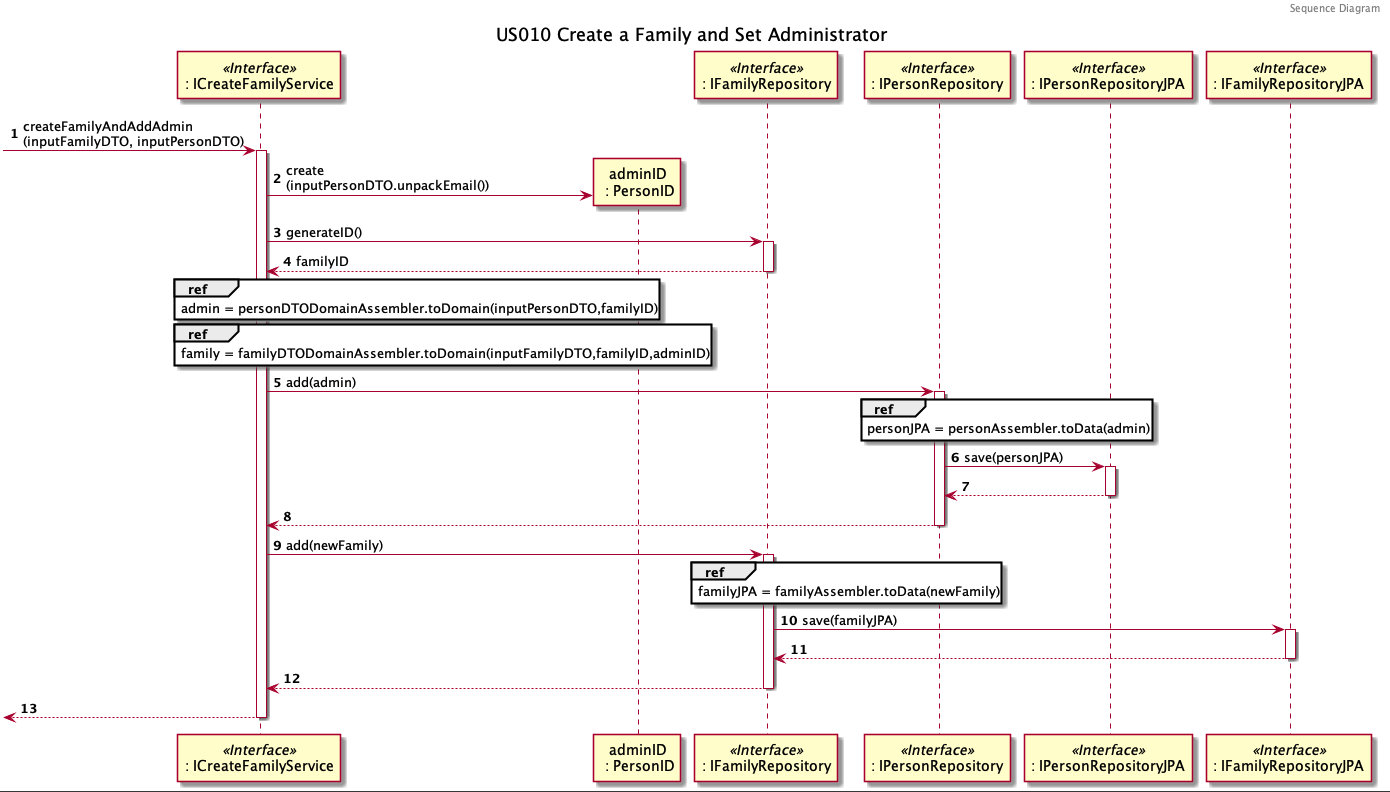
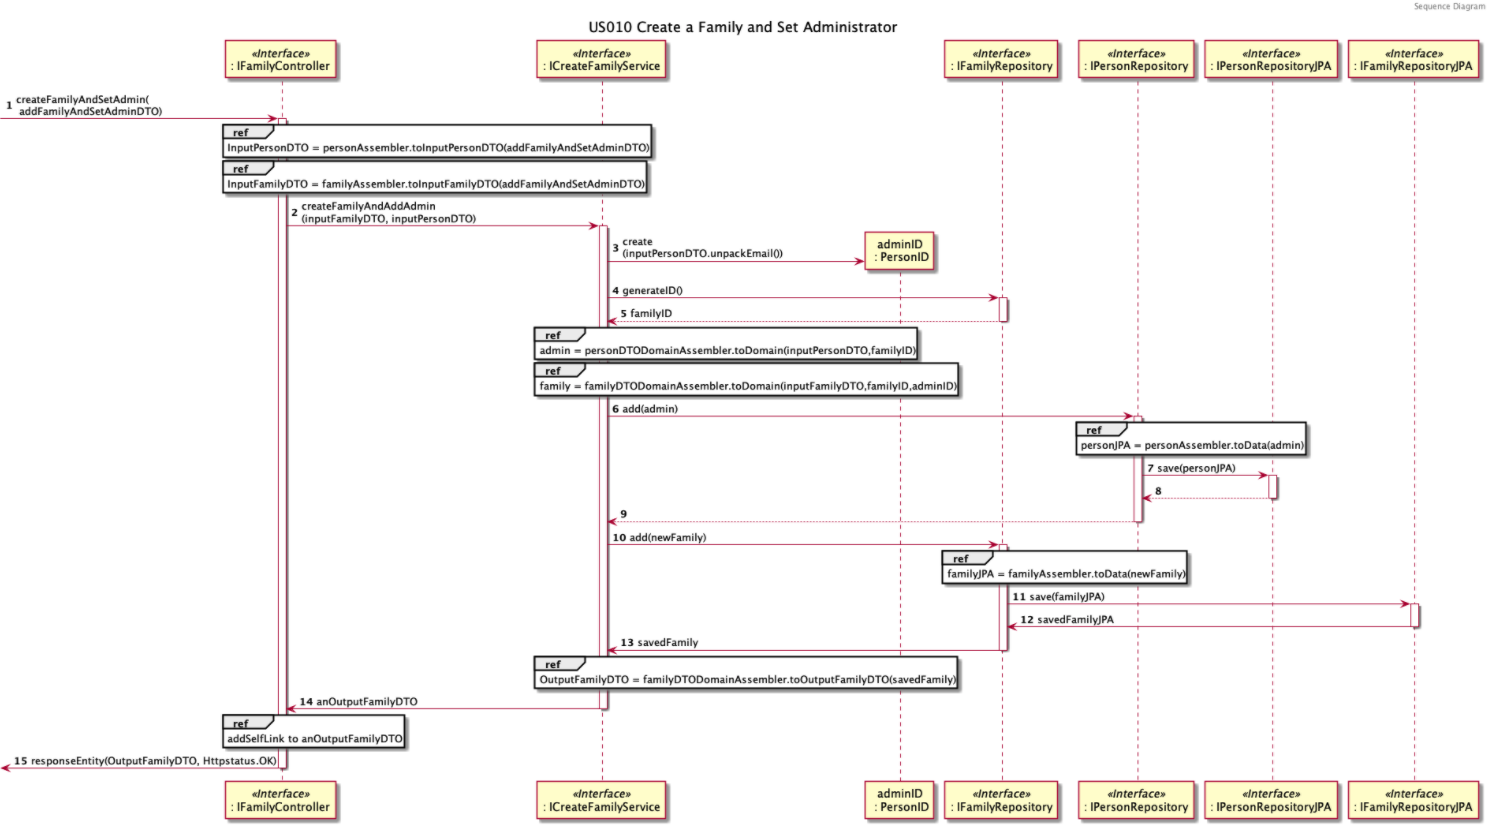
process logic add examples

diff --git a/Views.md b/Views.md
@@ -223,8 +223,8 @@ Foram introduzidos conceitos como os *aggregates* e *value objects* que permitir
 
 DDD diagram
 
-A forma final da aplicação utiliza a arquitetura **Onion** que é representada por uma divisão em camadas concêntricas cujas dependências têm um sentido interno.
-O diagrama de classes apresenta-se dividido em 4 camadas, **infrastructure**, **interface adapters**, **use case services** e **domain**, sendo a infrastructure a mais exterior e a domain a mais interior, representado na seguinte imagem.
+A forma final da aplicação utiliza a arquitetura ***Onion*** que é representada por uma divisão em camadas concêntricas cujas dependências têm um sentido interno.
+O diagrama de classes apresenta-se dividido em 4 camadas, ***infrastructure***, ***interface adapters***, ***use case services*** e ***domain***, sendo a *infrastructure* a mais exterior e o *domain* a mais interior, representado na seguinte imagem.
 
 Class Diagram
 
@@ -237,44 +237,32 @@ Seguindo a estruturação apresentada na vista lógica é possível construir a 
 ![sd_us001](diagrams/general%20diagram%20SD.png)
 
 Aplicando a estrutura do diagrama de sequência podemos concluir que segue um padrão comum para todas as **user stories** da aplicação.
-Desta forma, há um pedido http direccionado ao **REST controller** que invoca um service, específico para cada caso de uso, onde a lógica de negócio será aplicada. Daqui será invocado o repositório do respetivo agregado envolvido, que será responsável pela comunicação com a persistência, e mediante o tipo de pedido adicionar ou obter a informação pretendida.
+Desta forma, há um pedido http direccionado ao ***REST controller*** que invoca um ***service***, específico para cada caso de uso, onde a lógica de negócio será aplicada. Daqui será invocado o **repositório** do respetivo agregado envolvido, que será responsável pela comunicação com a persistência, e mediante o tipo de pedido adicionar ou obter a informação pretendida.
 
-Entre cada uma destas etapas serão invocados **assemblers** cuja finalidade é mapear os dados com o objectivo de proteger e encapsular a informação proveniente de camadas diferentes. Isto permite-nos respeitar os princípios do encapsulamento e tornar a aplicação escalável.
+Entre cada uma destas etapas serão invocados ***assemblers*** cuja finalidade é mapear os dados com o objectivo de proteger e encapsular a informação proveniente de camadas diferentes. Isto permite-nos respeitar os princípios do encapsulamento e tornar a aplicação escalável.
 
-Esta arquitetura garante que o **single responsibility principle** é respeitado.
+Esta arquitetura garante que o ***single responsibility principle*** é respeitado.
 
+Na seguinte lista serão descritas as características específicas de cada tipo de diagrama
 
-**Lista de diagramas de sequência separados por agregados**:
-
-#### 1) CATEGORY
-
-#### US001 - Create Standard Category
-
-![sd_us001](diagrams/SD/SD_US001_CreateStandardCategory.png)
-
-#### US002 - Create Standard Category Tree
-
-![sd_us002](diagrams/SD/SD_US002_CreateStandardCategoryTree.png)
+#### 1) GET HTTP request example
 
 #### US110 - Get Category list
+
+Nos **pedidos http - Get** o repositório comunica com o repositório JPA para obter todos os dados relativos à user story, neste caso às categorias, converte cada objecto de JPA para objecto de domínio e adiciona a uma lista. Posteriormente essa lista é convertida para um DTO da lista e devolvido ao ***controller*** 
 
 ![sd_us110](diagrams/SD/SD_US110_GetCategoryList.png)
 
 ______
 
-#### 2) FAMILY
+#### 2) POST HTTP request example
 
 #### US010 - Create Family and set Administrator
 
+
+
 ![sd_us010](diagrams/SD/SD_US010_CreateFamilyAndSetAdmin.png)
 
-#### US104 - Get family member list and their relation
-
-![sd_us104](diagrams/SD/SD_US104_GetFamilyMembersListAndTheirRelations.png)
-
-#### US105 - Create relation
-
-![sd_us105](diagrams/SD/SD_US105_CreateRelation.png)
 
 ______
 
@@ -296,18 +284,21 @@ ______
 
 #### 4) Account 
 
-Todas as Accounts seguem a mesma forma de criação variando apenas o OwnerID, familyID ou PersonID.
+Todas as Accounts seguem a mesma forma de criação variando apenas o OwnerID, podendo ser familyID/personID na criação da Cash Account ou personID na criação nos restantes tipos de conta.
 Para as Account de person, os diferentes tipos de Accounts são criadas com a selecção do respectivo AccountType, como se encontra presente no diagrama das Factory 1 e 2.
 
-#### US120 - Create family Cash Account
+
+#### US120 - Create **Family** Cash Account
 
 ![sd_us120](diagrams/SD/SD_US120_CreateFamilyCashAccount.png)
 
-#### US170,171,172,173 - Create Person's Cash, Bank, BankSavings and Credit Accounts
+#### US170,171,172,173 - Create **Person**'s Cash, Bank, BankSavings and Credit Accounts
 
 ![sd_us17X](diagrams/SD/SD_US170:171:172:173_CreateAccount.png)
 
 #### Account Factory 1 (sem accountID)
+
+
 
 ![sd_factory_1](diagrams/SD/SD_extra_AccountFactory_1.png)
 
